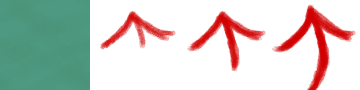
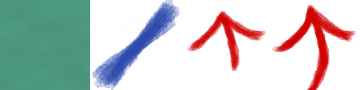
feat: implement reflector

Changed region(s): [[0.2444, 0.0, 0.5194, 1.0]]

diff --git a/game.c b/game.c
@@ -14,7 +14,6 @@
 // with callbacks. See if there is a better way to accomplish this.
 world* global_w;
 float global_seconds;
-float global_frame_change_seconds;
 
 int get_position_index_sizes(int x_size, int y_size, int z_size, int x, int y, int z) {
     return ( z * x_size * y_size ) + ( y * x_size ) + x;
@@ -43,6 +42,8 @@ char* as_text(entity_type e) {
         return "SLIPPERY_GROUND";
     if (e == FURNITURE)
         return "FURNITURE";
+    if (e == REFLECTOR)
+        return "REFLECTOR";
     return "INVALID";
 }
 
@@ -64,7 +65,7 @@ int set_cold_target(world* w, int index) {
 }
 bool has_animations(entity_type et) {
     // return (et==PLAYER);
-    return (et==PLAYER || et==CUBE || et==FURNITURE);
+    return (et==PLAYER || et==CUBE || et==FURNITURE || et==REFLECTOR);
 }
 
 int add_entity(world* w, entity_type e, int x, int y, int z) {
@@ -88,7 +89,7 @@ int add_entity(world* w, entity_type e, int x, int y, int z) {
             w->animations[anim_index].animating = false;
             w->animations_occupied++;
         }
-        entity_data ed = {e, anim_index};
+        entity_data ed = {e, anim_index, 0};
         w->entities[entity_index] = ed;
         w->entities_occupied++;
     }
@@ -124,6 +125,8 @@ entity_type get_entity_type(char c) {
         return SLIPPERY_GROUND;
     if (c == 'F')
         return FURNITURE;
+    if (c == 'R')
+        return REFLECTOR;
     if (c == 'C')
         return COLD_TARGET;
     if (c == 'D')
@@ -148,6 +151,8 @@ char get_entity_char(entity_type et) {
         return '~';
     if (et == FURNITURE)
         return 'F';
+    if (et == REFLECTOR)
+        return 'R';
     if (et == COLD_TARGET)
         return 'C';
     if (et == DESTROYED_TARGET)
@@ -282,7 +287,7 @@ int init_world(world* w, uint number) {
     levels_list list = load_levels_list();
     world_freezeframe* frames = (world_freezeframe*) malloc(HISTORY_STEPS * sizeof(world_freezeframe));
     world_history history = {0, frames};
-    world tmp = {0, 0, 0, 0, false, {}, 0, {}, 0, {}, {0, 0, 0}, input, ALIVE, 0, list,
+    world tmp = {0, 0, 0, 0, false, 0, 0, {}, {}, {}, {0, 0, 0}, input, ALIVE, 0, list,
                  0.0, {false, 0, GROUND, {false, false, 0.0, 0.0}}, NULL, {}, history};
     *w = tmp;
     load_level(w);
@@ -312,9 +317,17 @@ int can_support_furniture(entity_type et) {
     return 0;
 }
 
+int can_support_reflector(entity_type et) {
+    if (et == GROUND ||
+        et == SLIPPERY_GROUND)
+        return 1;
+    return 0;
+}
+
 int can_stop_cube_slide(entity_type et) {
     if (et == CUBE ||
         et == FURNITURE ||
+        et == REFLECTOR ||
         et == WALL)
         return true;
     return false;
@@ -334,6 +347,36 @@ int add_interpolation(world* w, uint index, int x, int y, int dx, int dy, int de
             x, y, x, y, dx, dy};
         w->animations[w->entities[index].anim_index] = move_animation;
     }
+    return 0;
+}
+
+int maybe_reflect_cube(world* w, int ogx, int ogy, int x, int y, int z, int dx, int dy, int dz, int depth) {
+    // this is slightly different from the other functions because we need to be able to
+    // chain the reflections. ogx and ogy are the original positions of the cube. x and
+    // y are the positions of the reflector (not the cube).
+    int r_index = get_position_index(w, x, y, z);
+    int reflector_index = w->grid_data[r_index];
+    int index = get_position_index(w, ogx, ogy, z);
+    int tx, ty, ndx, ndy;
+    if (w->entities[reflector_index].data == 0) {
+        ndx = dy;
+        ndy = dx;
+        tx = x+ndx;
+        ty = y+ndy;
+    }
+    int target_pos_index = get_position_index(w, tx, ty, z);
+    int et = get_entity_at(w, target_pos_index);
+    if (can_stop_cube_slide(et) && et!=REFLECTOR)
+        return 1;
+    if (et == REFLECTOR) {
+        maybe_reflect_cube(w, ogx, ogy, tx, ty, z, ndx, ndy, dz, depth+1);
+        // does this need to return?
+        return 1;
+    }
+    int cube_index = w->grid_data[index];
+    w->grid_data[target_pos_index] = cube_index;
+    set_none(w, index);
+    maybe_move_cube(w, tx, ty, z, ndx, ndy, dz, depth+1);
     return 0;
 }
 
@@ -357,12 +400,12 @@ int maybe_move_cube(world* w, int x, int y, int z, int dx, int dy, int dz, int d
         if (can_stop_cube_slide(get_entity_at(w, target_pos_index))) {
             if (get_entity_at(w, target_pos_index) == CUBE)
                 maybe_move_cube(w, x+dx, y+dy, z+dz, dx, dy, dz, depth);
+            if (get_entity_at(w, target_pos_index) == REFLECTOR)
+                maybe_reflect_cube(w, x, y, x+dx, y+dy, z, dx, dy, dz, depth);
             if (get_entity_at(w, target_pos_index) == FURNITURE)
                 maybe_move_furniture(w, x+dx, y+dy, z+dz, dx, dy, dz, depth);
             // check if win.
             if (get_entity_at(w, on_index) == HOT_TARGET) {
-                printf("extinguiishing fire\n");
-                // put out fire
                 set_none(w, index);
                 set_cold_target(w, on_index);
             }
@@ -423,9 +466,49 @@ int maybe_move_furniture(world* w, int x, int y, int z, int dx, int dy, int dz, 
     return 0;
 }
 
+int maybe_move_reflector(world* w, int x, int y, int z, int dx, int dy, int dz, int depth) {
+    int on_index = get_position_index(w, x, y, z-1);
+    int index = get_position_index(w, x, y, z);
+    if ((x+dx < 0 || x+dx > w->x_size-1) ||
+        (y+dy < 0 || y+dy > w->y_size-1) ||
+        (z+dz < 0 || z+dz > w->z_size-1)) {
+        printf("removing reflector because oob\n");
+        set_none(w, index);
+        return -1;
+    }
+    // see what's already in desired place
+    int target_pos_index = get_position_index(w, x+dx, y+dy, z+dz);
+    if (get_entity_at(w, target_pos_index) != NONE) {
+        if (get_entity_at(w, target_pos_index) == WALL)
+            return 1;
+        if (get_entity_at(w, target_pos_index) == FURNITURE)
+            return 1;
+        if (get_entity_at(w, target_pos_index) == REFLECTOR)
+            return 1;
+        if (get_entity_at(w, target_pos_index) == CUBE) {
+            return 1;
+        }
+        // what if it's player?
+    }
+    int target_on_index = get_position_index(w, x+dx, y+dy, z+dz-1);
+    if (!can_support_reflector(get_entity_at(w, target_on_index))) {
+        printf("removing reflector because no support\n");
+        set_none(w, index);
+        return -2;
+    }
+    int reflector_index = w->grid_data[index];
+    w->grid_data[target_pos_index] = reflector_index;
+    set_none(w, index);
+    add_interpolation(w, reflector_index, x, y, dx, dy, depth);
+    if (get_entity_at(w, target_on_index) == SLIPPERY_GROUND)
+        maybe_move_reflector(w, x+dx, y+dy, z+dz, dx, dy, dz, depth+1);
+    return 0;
+}
+
 bool can_push_player_back(entity_type et) {
     if (et == CUBE ||
         et == FURNITURE ||
+        et == REFLECTOR ||
         et == WALL)
         return true;
     return false;
@@ -463,6 +546,8 @@ int maybe_move_player(world* w, int dx, int dy, int dz, bool force, int depth) {
             maybe_move_cube(w, pos.x+dx, pos.y+dy, pos.z+dz, dx, dy, dz, depth);
         if (get_entity_at(w, target_index) == FURNITURE)
             maybe_move_furniture(w, pos.x+dx, pos.y+dy, pos.z+dz, dx, dy, dz, depth);
+        if (get_entity_at(w, target_index) == REFLECTOR)
+            maybe_move_reflector(w, pos.x+dx, pos.y+dy, pos.z+dz, dx, dy, dz, depth);
         return 1;
     }
     // check if can stand

diff --git a/main.c b/main.c
@@ -57,6 +57,10 @@ int main(int argc, char** argv) {
                 w.editor.z_level = 1;
                 w.editor.active_type = FURNITURE;
             }
+            if (add_button(&ui_state, &w.ui_window, "REFLECTOR", true)) {
+                w.editor.z_level = 1;
+                w.editor.active_type = REFLECTOR;
+            }
             if (add_button(&ui_state, &w.ui_window, "PLAYER", true)) {
                 w.editor.z_level = 1;
                 w.editor.active_type = PLAYER;
@@ -118,8 +122,8 @@ int main(int argc, char** argv) {
             cb_render_window(&ui_state, &w.ui_window);
         }
         char fps_counter[48];
-        sprintf(fps_counter, "%.2f frames per second", 1.0/frame_time);
-        cb_ui_render_text(&ui_state, fps_counter, WINDOW_WIDTH-50, 20);
+        sprintf(fps_counter, "%.2f fps", 1.0/frame_time);
+        cb_ui_render_text(&ui_state, fps_counter, WINDOW_WIDTH-100, 20);
         render_chars(&ui_state);
         glfwSwapBuffers(r.window);
     }

diff --git a/game.h b/game.h
@@ -17,6 +17,7 @@ typedef enum {
     DESTROYED_TARGET,
     NONE,
     FURNITURE,
+    REFLECTOR,
     INVALID,
 } entity_type;
 
@@ -89,6 +90,7 @@ typedef struct {
 typedef struct {
     entity_type type;
     uint anim_index;
+    uint data;
 } entity_data;
 
 typedef struct {
@@ -97,10 +99,10 @@ typedef struct {
     uint y_size;
     uint z_size;
     bool animating;
-    uint grid_data[MAX_WORLD_ENTITIES];
     uint entities_occupied;
-    entity_data entities[MAX_WORLD_ENTITIES];
     uint animations_occupied;
+    uint grid_data[MAX_WORLD_ENTITIES];
+    entity_data entities[MAX_WORLD_ENTITIES];
     animation_state animations[MAX_WORLD_ENTITIES/16];
     vec3i player_position;
     player_input input;

diff --git a/simple_renderer.c b/simple_renderer.c
@@ -133,6 +133,8 @@ float get_entity_material(entity_type type) {
         return 9.0;
     if (type == DESTROYED_TARGET)
         return 10.0;
+    if (type == REFLECTOR)
+        return 11.0;
 }
 
 float get_block_size(entity_type type) {
